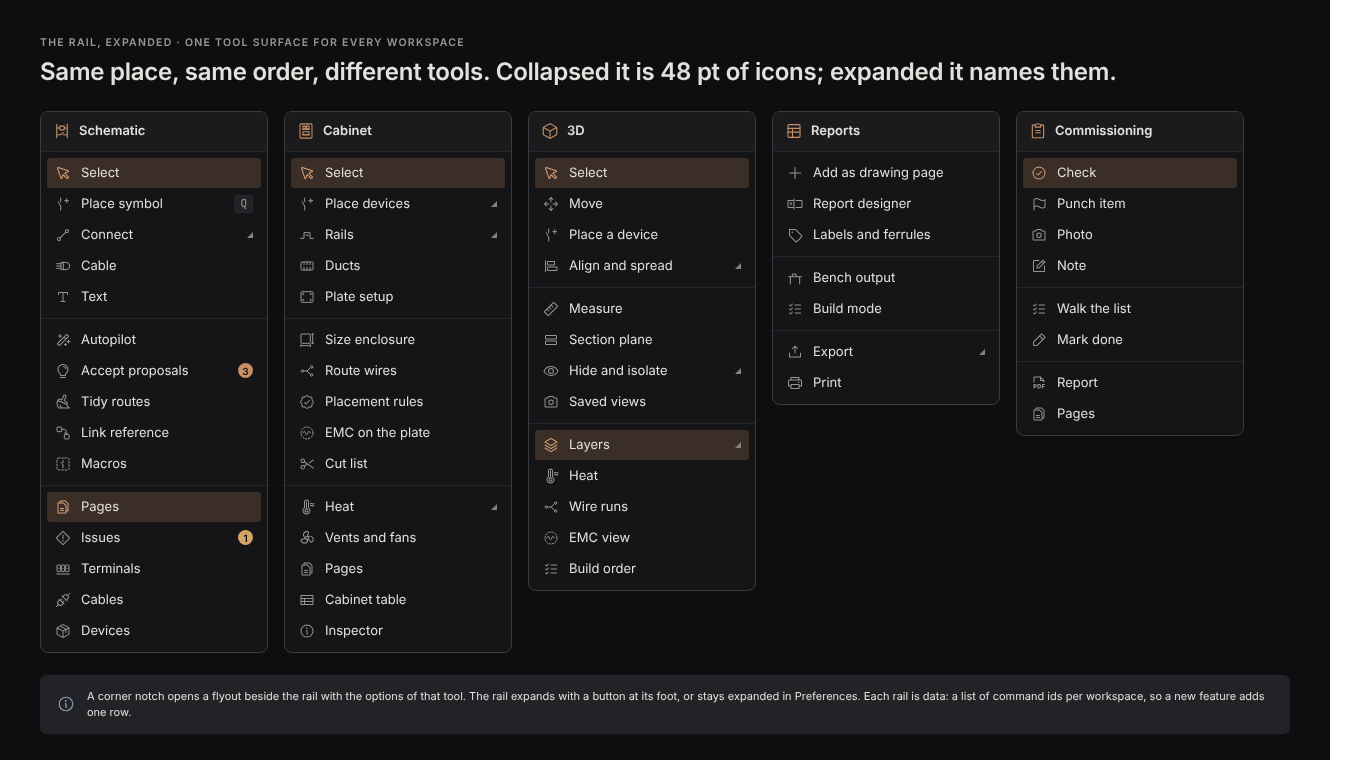
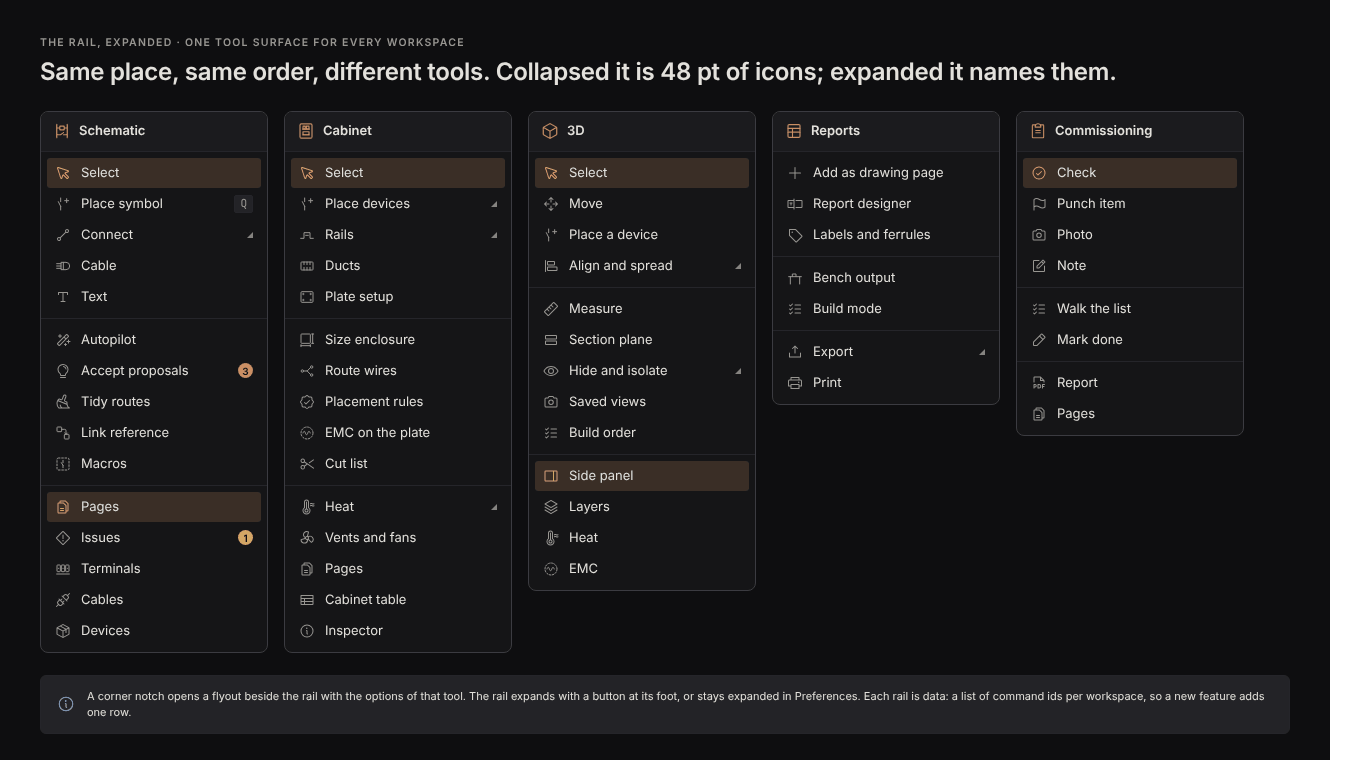
Design: 3D side panel with foldable, undockable sections (supersedes #1582) (#1583)
* Design: 3D overlays and panels addendum (one state per option, panel group, Panels entry)

Claude-Session: https://claude.ai/code/session_015gECXU7iMRGbGb7PGYBbPU

* Design: 3D side panel with foldable, undockable sections (replaces tabs)

Adopts the owner's model: one right-hand panel, each section folds on its own
and can be undocked to a floating window. New side-panel board, 3D rail panels
zone reduced to Side panel, Layers, Heat, EMC; switch states written On or Off;
keyboard rule; Door stored once; add-on slot fits the zone.

Claude-Session: https://claude.ai/code/session_015gECXU7iMRGbGb7PGYBbPU

* Design: always-visible simulation status chip in the 3D workspace

Claude-Session: https://claude.ai/code/session_015gECXU7iMRGbGb7PGYBbPU

---------

Changed region(s): [[0.369, 0.5312, 0.5534, 0.75]]

diff --git a/docs/design/visual-redesign/mockups/Side-panel.dc.html b/docs/design/visual-redesign/mockups/Side-panel.dc.html
@@ -1,0 +1,141 @@
+<!doctype html>
+<html lang="en">
+<head>
+<meta charset="utf-8">
+<title>Side panel with foldable sections</title>
+<script src="./support.js"></script>
+<link rel="stylesheet" href="@@KC@@">
+</head>
+<body>
+<x-dc>
+<helmet>
+<style>
+body{margin:0}
+.sc{border-bottom:1px solid var(--bd)}
+.sh{display:flex;align-items:center;gap:8px;height:34px;padding:0 8px 0 6px;background:var(--panel)}
+.sh .t{font-weight:600}
+.sh.open{background:var(--raised)}
+.sw{display:inline-flex;align-items:center;gap:6px;color:var(--tx2);font-size:11.5px}
+.sw i.k{width:26px;height:14px;border-radius:7px;background:var(--bd2);position:relative;display:inline-block}
+.sw i.k::after{content:"";position:absolute;left:2px;top:2px;width:10px;height:10px;border-radius:5px;background:var(--tx2)}
+.sw.on{color:var(--tx)}
+.sw.on i.k{background:var(--ac)}
+.sw.on i.k::after{left:14px;background:var(--onac)}
+.sb{padding:6px 10px 10px;display:flex;flex-direction:column;gap:6px;background:var(--raised)}
+.ghost{opacity:.6}
+.nn{position:absolute;width:20px;height:20px;border-radius:10px;background:var(--ac);color:var(--onac);font-size:11px;font-weight:700;display:flex;align-items:center;justify-content:center;z-index:12;box-shadow:0 0 0 2px var(--ground)}
+</style>
+</helmet>
+<div class="kc {{theme}} win">
+  <div class="top">
+    <button class="mark" aria-label="App menu"><span class="logo"><i class="brand"></i></span><i class="i i-caret-down i14" style="color:var(--tx3)"></i></button>
+    <button class="btn" aria-label="Undo"><i class="i i-arrow-counter-clockwise i18"></i></button>
+    <button class="btn dim" aria-label="Redo"><i class="i i-arrow-clockwise i18"></i></button>
+    <span class="vsep"></span>
+    <div class="seg">
+      <button class="btn" aria-label="Schematic"><i class="i ki-schematic i18"></i></button>
+      <button class="btn" aria-label="Cabinet"><i class="i ki-cabinet i18"></i></button>
+      <button class="btn on" aria-label="3D view"><i class="i i-cube i18"></i><span>3D view</span></button>
+      <button class="btn" aria-label="Reports"><i class="i ki-report i18"></i></button>
+      <button class="btn" aria-label="Commissioning"><i class="i i-clipboard-text i18"></i></button>
+    </div>
+    <span class="vsep"></span>
+    <button class="crumb" aria-label="Cabinet"><i class="i ki-cabinet i14"></i><span>Motor starter (example)</span><span style="color:var(--tx3)">/</span><b>+CAB · 600 × 800 × 230</b></button>
+    <span class="grow"></span>
+    <button class="search" aria-label="Search or run"><i class="i i-magnifying-glass i14"></i><span style="min-width:96px;text-align:left">Search or run</span><span class="kbd">Ctrl K</span></button>
+    <span class="pill warn"><i class="i i-warning i14"></i>1</span>
+    <button class="btn" aria-label="Help"><i class="i i-question i18"></i></button>
+  </div>
+
+  <div class="stage">
+    <div class="rail">
+      <button class="btn on" aria-label="Select"><i class="i i-cursor"></i></button>
+      <button class="btn" aria-label="Move"><i class="i i-arrows-out-cardinal"></i></button>
+      <button class="btn" aria-label="Place a device"><i class="i ki-place"></i></button>
+      <button class="btn flyout" aria-label="Align and spread"><i class="i i-align-left"></i></button>
+      <div class="hsep"></div>
+      <button class="btn" aria-label="Measure"><i class="i i-ruler"></i></button>
+      <button class="btn" aria-label="Section plane"><i class="i i-rows"></i></button>
+      <button class="btn flyout" aria-label="Hide and isolate"><i class="i i-eye"></i></button>
+      <button class="btn" aria-label="Saved views"><i class="i i-camera"></i></button>
+      <div class="spacer"></div>
+      <div class="hsep"></div>
+      <button class="btn on" aria-label="Side panel"><i class="i i-sidebar-simple" style="transform:scaleX(-1)"></i></button>
+      <button class="btn" aria-label="Layers"><i class="i i-stack"></i></button>
+      <button class="btn" aria-label="Heat"><i class="i i-thermometer-hot"></i></button>
+      <button class="btn" aria-label="EMC"><i class="i ki-emc"></i></button>
+    </div>
+    <div class="cv" style="background:radial-gradient(ellipse at 50% 40%,var(--paper) 0,var(--ground) 80%)">
+      <div class="abs art-iso-{{theme}}" style="inset:0;right:300px;background-position:center 6px;background-size:auto 700px"></div>
+
+      <!-- the side panel: one column, every section folds by itself -->
+      <div class="float" style="right:0;top:0;bottom:0;width:300px;border-radius:0;display:flex;flex-direction:column;z-index:4;overflow:hidden">
+        <div class="wt"><i class="i i-sidebar-simple i14" style="color:var(--ac2);transform:scaleX(-1)"></i><span class="t">3D side panel</span>
+          <button class="btn" aria-label="Sections"><i class="i i-dots-three i14"></i></button>
+          <button class="btn" aria-label="Dock left"><i class="i i-sidebar-simple i14"></i></button>
+          <button class="btn" aria-label="Close"><i class="i i-x i14"></i></button></div>
+        <div class="col" style="flex:1;min-height:0;overflow:hidden"><div class="sc"><div class="sh open"><i class="i i-caret-down i14" style="color:var(--tx3)"></i><i class="i i-info i16" style="color:var(--ac2)"></i><span class="t">Inspector</span><span class="grow"></span><button class="btn" aria-label="Undock" style="height:22px;min-width:22px;padding:0 3px"><i class="i i-arrow-square-out i14"></i></button></div><div class="sb"><div class="row" style="justify-content:space-between"><span class="cap">Device</span><b>-K1 · Contactor</b></div>
+<div class="row" style="justify-content:space-between"><span class="cap">X</span><span class="field mono" style="height:24px;width:110px;justify-content:flex-end">60.0 mm</span></div>
+<div class="row" style="justify-content:space-between"><span class="cap">Y</span><span class="field mono" style="height:24px;width:110px;justify-content:flex-end">360.0 mm</span></div>
+<div class="row" style="justify-content:space-between"><span class="cap">Rail</span><span>Rail 2</span></div></div></div><div class="sc"><div class="sh open"><i class="i i-caret-down i14" style="color:var(--tx3)"></i><i class="i i-stack i16" style="color:var(--ac2)"></i><span class="t">Layers</span><span class="grow"></span><button class="btn" aria-label="Undock" style="height:22px;min-width:22px;padding:0 3px"><i class="i i-arrow-square-out i14"></i></button></div><div class="sb"><div class="row gap8" style="height:24px"><i class="i i-eye i14" style="color:var(--ac2)"></i><span style="color:var(--tx)">Enclosure</span><span class="grow"></span><span class="cap">On</span></div><div class="row gap8" style="height:24px"><i class="i i-eye i14" style="color:var(--ac2)"></i><span style="color:var(--tx)">Door</span><span class="grow"></span><span class="cap">On</span></div><div class="row gap8" style="height:24px"><i class="i i-eye i14" style="color:var(--ac2)"></i><span style="color:var(--tx)">Wires</span><span class="grow"></span><span class="cap">On</span></div><div class="row gap8" style="height:24px"><i class="i i-eye i14" style="color:var(--ac2)"></i><span style="color:var(--tx)">Ducts</span><span class="grow"></span><span class="cap">On</span></div><div class="row gap8" style="height:24px"><i class="i i-eye-slash i14" style="color:var(--tx3)"></i><span style="color:var(--tx2)">Shadows</span><span class="grow"></span><span class="cap">Off</span></div><div class="row gap8" style="height:24px"><i class="i i-eye-slash i14" style="color:var(--tx3)"></i><span style="color:var(--tx2)">Ambient occlusion</span><span class="grow"></span><span class="cap">Off</span></div><div class="row gap8" style="height:24px"><i class="i i-eye i14" style="color:var(--ac2)"></i><span style="color:var(--tx)">Dimensions</span><span class="grow"></span><span class="cap">On</span></div></div></div><div class="sc ghost"><div class="sh"><i class="i i-caret-right i14" style="color:var(--tx3)"></i><i class="i i-thermometer-hot i16" style="color:var(--ac2)"></i><span class="t">Heat</span><span class="grow"></span><span class="cap">Floating</span><button class="btn" aria-label="Dock back" style="height:22px;min-width:22px;padding:0 3px"><i class="i i-arrow-square-in i14"></i></button></div></div><div class="sc"><div class="sh"><i class="i i-caret-right i14" style="color:var(--tx3)"></i><i class="i i-fan i16" style="color:var(--ac2)"></i><span class="t">Vents and fans</span><span class="grow"></span><span class="sw "><i class="k"></i>Off</span><button class="btn" aria-label="Undock" style="height:22px;min-width:22px;padding:0 3px"><i class="i i-arrow-square-out i14"></i></button></div></div><div class="sc"><div class="sh"><i class="i i-caret-right i14" style="color:var(--tx3)"></i><i class="i ki-emc i16" style="color:var(--ac2)"></i><span class="t">EMC</span><span class="grow"></span><span class="sw "><i class="k"></i>Off</span><button class="btn" aria-label="Undock" style="height:22px;min-width:22px;padding:0 3px"><i class="i i-arrow-square-out i14"></i></button></div></div><div class="sc"><div class="sh"><i class="i i-caret-right i14" style="color:var(--tx3)"></i><i class="i i-door i16" style="color:var(--ac2)"></i><span class="t">Door</span><span class="grow"></span><button class="btn" aria-label="Undock" style="height:22px;min-width:22px;padding:0 3px"><i class="i i-arrow-square-out i14"></i></button></div></div><div class="sc"><div class="sh"><i class="i i-caret-right i14" style="color:var(--tx3)"></i><i class="i ki-enclosure i16" style="color:var(--ac2)"></i><span class="t">Sizing</span><span class="grow"></span><button class="btn" aria-label="Undock" style="height:22px;min-width:22px;padding:0 3px"><i class="i i-arrow-square-out i14"></i></button></div></div></div>
+        <div class="grip" style="left:0;bottom:0;transform:scaleX(-1)"></div>
+      </div>
+
+      <!-- simulation status: always visible in the 3D workspace, no section needs to be open -->
+      <div class="float" style="left:16px;top:14px;width:400px;padding:0;z-index:7;overflow:hidden">
+        <div class="row gap8" style="height:40px;padding:0 8px 0 12px">
+          <i class="i i-warning i18" style="color:var(--warn)"></i>
+          <span class="col" style="gap:0;min-width:0;white-space:nowrap"><b>Heat is out of date</b><span class="cap">Model changed 3 min ago · run 12 min ago</span></span>
+          <span class="grow"></span>
+          <button class="prim" style="height:26px;padding:0 10px;white-space:nowrap">Run again</button>
+          <span class="chip" style="height:20px" aria-label="2 more">+2</span>
+        </div>
+        <div style="border-top:1px solid var(--bd)">
+          <div class="row gap8" style="height:30px;padding:0 12px"><i class="i i-check-circle i14" style="color:var(--ok)"></i><span>EMC</span><span class="grow"></span><span class="cap">Done · 12 min ago</span></div>
+          <div class="row gap8" style="height:30px;padding:0 12px"><i class="i i-prohibit i14" style="color:var(--tx2)"></i><span>Interior</span><span class="grow"></span><span class="cap">Not set</span><button class="sec" style="height:22px;padding:0 8px">Set interior</button></div>
+        </div>
+      </div>
+      <span class="nn" style="left:420px;top:22px">5</span>
+
+      <!-- an undocked section: Heat as its own window, same host header -->
+      <div class="float" style="left:30px;top:250px;width:250px;z-index:6;box-shadow:0 18px 44px rgba(0,0,0,.5),0 0 0 2px var(--ac)">
+        <div class="wt"><i class="i i-thermometer-hot i14" style="color:var(--ac2)"></i><span class="t">Heat</span><span class="sw on"><i class="k"></i>On</span>
+          <button class="btn" aria-label="Dock back"><i class="i i-arrow-square-in i14"></i></button><button class="btn" aria-label="Close"><i class="i i-x i14"></i></button></div>
+        <div class="col gap8" style="padding:10px 12px">
+          <div style="height:10px;border-radius:5px;background:linear-gradient(90deg,#2B0F54,#B63679,#FB8761,#FCFDBF)"></div>
+          <div class="row" style="justify-content:space-between"><span class="cap">20 °C</span><span class="cap">ambient 35 °C</span><span class="cap">70 °C</span></div>
+          <div class="row" style="justify-content:space-between"><span class="cap">Hottest</span><b>-Q1 · 62 °C</b></div>
+          <div class="row" style="justify-content:space-between"><span class="cap">Total loss</span><b class="mono">148 W</b></div>
+        </div>
+        <div class="grip" style="right:0;bottom:0"></div>
+      </div>
+
+      <span class="nn" style="right:306px;top:39px">1</span>
+      <span class="nn" style="right:306px;top:192px">2</span>
+      <span class="nn" style="left:262px;top:236px">3</span>
+      <span class="nn" style="right:306px;top:446px">4</span>
+
+      <div class="float" style="left:30px;bottom:16px;width:440px;padding:14px 16px;z-index:9">
+        <div class="lbl" style="margin-bottom:8px">One panel, foldable sections</div>
+        <div style="display:grid;grid-template-columns:22px 1fr;row-gap:6px;align-items:start;font-size:12.5px">
+          <span class="nn" style="position:static;box-shadow:none">1</span><span><b>Fold each section on its own.</b> Several can be open; the column scrolls.</span>
+          <span class="nn" style="position:static;box-shadow:none">2</span><span><b>The switch in the header is the one On/Off</b> of Heat, EMC and Vents and fans, written as words.</span>
+          <span class="nn" style="position:static;box-shadow:none">3</span><span><b>Undock any section</b> into its own window; the row stays in the list and docks it back.</span>
+          <span class="nn" style="position:static;box-shadow:none">4</span><span><b>Door and Sizing</b> appear when there is an enclosure; sections you close come back from the dots menu or Ctrl K.</span>
+          <span class="nn" style="position:static;box-shadow:none">5</span><span><b>Simulation status is always on screen.</b> The chip shows the worst state and one action; +2 lists the rest.</span>
+        </div>
+      </div>
+    </div>
+  </div>
+  <div class="status"><span>Heat is floating. Drag its title bar to the right edge to dock it back.</span><span class="grow"></span><span class="mono">8 devices</span></div>
+</div>
+</x-dc>
+<script type="text/x-dc" data-dc-script data-props='{"theme":{"editor":"enum","options":["dark","light"],"default":"dark","section":"Look"}}'>
+class Component extends DCLogic {
+  renderVals() {
+    return { theme: this.props.theme ?? 'dark' };
+  }
+}
+</script>
+</body>
+</html>

diff --git a/docs/design/visual-redesign/mockups/Rails.dc.html b/docs/design/visual-redesign/mockups/Rails.dc.html
@@ -39,8 +39,8 @@ body{margin:0}
 
     <div class="rl"><div class="h"><i class="i i-cube i18" style="color:var(--ac)"></i>3D</div>
       <div class="g"><div class="mrow on"><i class="i i-cursor"></i>Select</div><div class="mrow"><i class="i i-arrows-out-cardinal"></i>Move</div><div class="mrow"><i class="i ki-place"></i>Place a device</div><div class="mrow"><i class="i i-align-left"></i>Align and spread<span class="fy"></span></div></div>
-      <div class="g"><div class="mrow"><i class="i i-ruler"></i>Measure</div><div class="mrow"><i class="i i-rows"></i>Section plane</div><div class="mrow"><i class="i i-eye"></i>Hide and isolate<span class="fy"></span></div><div class="mrow"><i class="i i-camera"></i>Saved views</div></div>
-      <div class="g"><div class="mrow on"><i class="i i-stack"></i>Layers<span class="fy"></span></div><div class="mrow"><i class="i i-thermometer-hot"></i>Heat</div><div class="mrow"><i class="i ki-net"></i>Wire runs</div><div class="mrow"><i class="i ki-emc"></i>EMC view</div><div class="mrow"><i class="i i-list-checks"></i>Build order</div></div>
+      <div class="g"><div class="mrow"><i class="i i-ruler"></i>Measure</div><div class="mrow"><i class="i i-rows"></i>Section plane</div><div class="mrow"><i class="i i-eye"></i>Hide and isolate<span class="fy"></span></div><div class="mrow"><i class="i i-camera"></i>Saved views</div><div class="mrow"><i class="i i-list-checks"></i>Build order</div></div>
+      <div class="g"><div class="mrow on"><i class="i i-sidebar-simple" style="transform:scaleX(-1)"></i>Side panel</div><div class="mrow"><i class="i i-stack"></i>Layers</div><div class="mrow"><i class="i i-thermometer-hot"></i>Heat</div><div class="mrow"><i class="i ki-emc"></i>EMC</div></div>
     </div>
 
     <div class="rl"><div class="h"><i class="i ki-report i18" style="color:var(--ac)"></i>Reports</div>

diff --git a/docs/design/visual-redesign/tools/build_kit.py b/docs/design/visual-redesign/tools/build_kit.py
@@ -38,7 +38,7 @@ shield-check circle push-pin-simple arrow-square-out frame-corners cursor-click 
 arrows-clockwise tray archive file-arrow-up image selection-all bounding-box toggle-left wave-sine flag note-pencil table  printer
 git-commit circle-notch sun moon palette rows-plus-bottom open-ai-logo hard-drives map-trifold  list-checks list-bullets textbox
 resize arrows-horizontal dock-simple monitor app-window picture-in-picture arrow-line-right arrow-line-left dots-six  cpu plug-charging
-wall power battery-charging lightning-a gear toolbox target fast-forward rewind pause stop timer clock puzzle-piece shield-warning toggle-right lock-key game-controller broadcast certificate fingerprint prohibit seal-warning plug record""".split()
+wall power battery-charging lightning-a gear toolbox target fast-forward rewind pause stop timer clock puzzle-piece shield-warning toggle-right lock-key game-controller broadcast certificate fingerprint prohibit seal-warning plug record arrow-square-in""".split()
 
 # the schematic and palette use these library symbols
 SUBSET = json.load(open(os.path.join(HERE, "symbols-subset.json")))

diff --git a/docs/design/visual-redesign-3d.md b/docs/design/visual-redesign-3d.md
@@ -1,0 +1,101 @@
+# Visual redesign addendum: 3D overlays and the side panel
+
+Graphic design thread, 2026-10-28. Addendum to `visual-redesign.md` (sections 3.2 and 8 and lane V3b). It answers the owner's complaints of 2026-10-28 about the 3D view:
+
+- EMC cannot be turned off in the 3D configuration panel.
+- The configuration panel is frustrating in general.
+- The other panels that can appear (Inspector, Temperature, Door, Sizing and so on) are separate popups that are hard to find, cannot be closed, and are not easy to open again.
+- Buttons are doubled: turning heat off in the 3D panel leaves it on in the top bar.
+- "Vents and fans" and "Heat" overlap each other. The owner's proposal: **one long panel on the right with individually foldable sections, each of which can be undocked into a floating window.** This page adopts that model.
+- It is very hard to see whether the simulation was done and what its status is, especially with the sections folded. Section 4 adds an always-visible status chip.
+
+![3D side panel](visual-redesign/images/side-panel-dark.png)
+
+| Board | Dark | Light |
+| --- | --- | --- |
+| 3D side panel: foldable sections, Heat undocked | [png](visual-redesign/images/side-panel-dark.png) | [png](visual-redesign/images/side-panel-light.png) |
+
+The board `workspace-3d` still shows the earlier Layers flyout; the side-panel board supersedes it.
+
+## 1. The causes this page designs against
+
+Confirmed in the code by the 3D rework thread: `view3d.rs` sets the EMC state from the controls before the toolbar runs and writes it back after the panels, which undoes a click; Cabinet has its own EMC state; Heat has three owners (the controls, the Cabinet heat state and the 3D heat layers). Inferred from the owner's words: each overlay opened its own popup, so there is no list of what can be open and no single way to close them.
+
+## 2. Rules
+
+1. **One state, one owner.** Every 3D view option (a layer or an overlay) is one entry in one registry with one stored value. The section switch, a Layers row, a rail button, the Ctrl K command and a key all read and write that entry. No surface keeps a copy, and nothing recomputes the value from somewhere else each frame.
+2. **The top bar carries no view toggles.** It holds the mark, undo and redo, the workspace segment, the page, search and issues (visual-redesign.md section 3.1). The existing top-bar heat button is removed in the same change that introduces the registry.
+3. **The switch lives in the section header.** An overlay that has a section (Heat, Vents and fans, EMC) is switched on and off by the switch in its header, **written as the word On or Off next to the switch**, never by colour alone. Plain visibility layers are rows of the Layers section, with On or Off written at the right. The rail buttons for these do not switch anything: they open the side panel and unfold the section (section 5).
+4. **Off means off.** Turning an overlay off hides its drawing and its legend, and survives selection changes, a new run and reopening the project. A test turns each option on and off from every surface and asserts the same value everywhere.
+5. **Every section can be folded, undocked, closed and found again.** Section 3 says how.
+6. **Keyboard and words.** Section headers, the switches and the Layers rows are reachable with Tab and the arrow keys; Enter or Space folds a section or flips a switch; Esc closes the topmost floating section. A switch is never colour only.
+
+## 3. The side panel
+
+One panel on the right (280 to 300 wide by default, resizable, dockable left or right, floatable as a whole, remembered per workspace layout; panel rules in visual-redesign.md section 8). Its sections, in the default order:
+
+| Section | What it holds | Switch | Shown |
+| --- | --- | --- | --- |
+| Inspector | The selection: device, position, rail, clearance. Follows the selection | none | Always |
+| Layers | Visibility rows: Enclosure, Door, Wires, Ducts, Shadows, Ambient occlusion, Dimensions, each with On or Off written. The Door row is visibility only; the angle lives in the Door section, so it is stored once | none (rows) | Always |
+| Heat | The scale and legend, hottest device, total loss, run. Replaces the separate "Temperature" popup | On or Off | Always |
+| Vents and fans | The cooling inputs (vents, fans, flow) that the Heat results depend on. A separate section because the owner asked for it; both read the same heat state | On or Off | Always |
+| EMC | The legend and the rules list | On or Off | Always |
+| Door | Door angle and clearance swing | none | When there is an enclosure |
+| Sizing | Enclosure size read-outs; the sizing tool stays "Size enclosure" on the Cabinet rail | none | When there is an enclosure |
+
+Behaviour of each section header (left to right: fold chevron, icon, title, switch where it has one, undock button):
+
+- **Fold.** Click the header or press Enter. Several sections can be open at once; the column scrolls and the headers of open sections stick to the top while their body scrolls. Alt+click folds all the others (solo). Fold state is remembered.
+- **Undock.** The undock button, or dragging the header out of the panel, turns the section into a floating window with the standard host header (icon, title, switch, dock back, close), resizable, remembered. The row stays in the list as a dimmed "Floating" row with a dock-back button, so nothing disappears from the panel. Dragging the floating window to the panel's edge docks it back; the dock-back button returns it to its place in the order.
+- **Close.** Closing a section hides it. The dots menu in the panel header ("Sections") lists every section with its state, and Ctrl K has "Show <section>" for each, so a closed section is one click away. Closing a section never changes its On or Off value.
+- **Esc** closes the topmost floating section; the panel itself closes with its X, the rail "Side panel" button, or Ctrl K.
+
+The **same component** can serve the Cabinet workspace (its own section list, for example Inspector, Heat, Vents and fans, EMC on the plate, Placement rules, Cabinet table). It is a section list per workspace, a data table like the rail tables, so a new section adds one row.
+
+## 4. Simulation status
+
+Owner, 2026-10-28: in the 3D view it is very hard to see whether the simulation has been done and what its status is, especially when the sections are folded, because a normal user does not know which section to open. **Status never lives inside a section.**
+
+- **An always-visible status chip** sits in the top-left corner of the 3D canvas (inset 12, clear of the view cube on the right; direction.md section 6 rule 6). It is there whether the side panel is open, folded, floating or closed.
+- It shows the **most important state** of the analyses behind the view, as an icon, words, one detail line and **one action**. The `+N` button opens a short list of the others, each with its own state and action.
+
+| State | Icon and words | Detail line | Action |
+| --- | --- | --- | --- |
+| Not run | play, "Heat has not been run" | What running gives, for example "Shows temperatures and the hottest device" | Run |
+| Running | spinner, "Heat is running" | Progress and time left; the spinner stops moving with Reduce motion and the words stay | Cancel |
+| Done | check-circle, "Heat is done" | Age ("3 min ago") | Open Heat (opens the side panel and unfolds the Heat section) |
+| Out of date | warning, "Heat is out of date" | "Model changed 3 min ago · last run 12 min ago" | Run again |
+| Failed | warning-octagon, "Heat failed" | The reason in plain words | Details, Run again |
+| Not set | prohibit, "Interior is not set" | What is missing | Set interior |
+
+- The same states apply to **EMC** ("EMC check is out of date") and any other analysis the 3D view shows; "Interior is not set" and similar missing inputs are states of the analysis that needs them.
+- **Priority** when several apply: Failed, Running, Out of date or Not set, Not run, Done. When everything is Done the chip stays, quiet, with the age ("Heat done 3 min ago"), so the answer to "was it run?" is always on screen.
+- **One owner:** each analysis has one status value (state, started, finished, the model revision it ran on, progress, error). "Out of date" is computed by comparing the model revision at the run with the current one, in one place. The chip, the Heat section header and Ctrl K read that value; nothing keeps its own copy.
+- States are words and an icon, never colour alone (warning and error colours support them). The chip is keyboard reachable and the action runs with Enter.
+- On a narrow canvas the chip shrinks to icon and the state word; the detail line moves to the tooltip.
+
+## 5. The rail on the 3D workspace
+
+The 3D rail (visual-redesign.md section 3.2) keeps its tools and assists. Its panels zone has four places: **Side panel** (show or hide the whole panel), **Layers**, **Heat** and **EMC**. The last three open the side panel if it is closed and unfold their section; they do not switch an overlay (rule 3). The zone stays at 4 base places, so the add-on slot (visual-redesign-addons.md section 3) fits as the fifth. "Build order" moves to the assists zone (5). "Wire runs" is the Wires row of Layers.
+
+## 6. Tests
+
+- **Single state:** for each registered option, set it from the section switch or row, Ctrl K and the key; assert all surfaces report the same value and that the drawing agrees.
+- **No duplicates:** a test lists the options each surface shows and fails if an option has a second owner or appears in the top bar (rule 2).
+- **Foldable, undockable, closable:** every section has fold, undock and close; undock then dock back restores the order; close then "Show" restores the section and its fold state.
+- **Off survives:** turn EMC and Heat off, select another device, rerun, reopen the project; they stay off.
+- **Keyboard:** the headers, switches, Layers rows and the status chip are reachable and operable without the mouse.
+- **Status:** run, move a device, and assert the chip goes Done then Out of date with the right words and action; fail a run and assert the reason shows; with every section folded and the panel closed the chip is still drawn.
+
+## 7. Order of work and lane V3b
+
+Lane V3b (the 3D rail) is **built together with the 3D rework**, as one thread. Suggested order, each step its own PR:
+
+1. **Registry, status and top bar** (needs nothing from the redesign): the view-option registry, rule 4's test, the top-bar heat button removed, EMC fixed, and the simulation status chip with its single status value (section 4). This ships on today's UI.
+2. **Side panel** (today's panel helper; docking arrives with lane V1): the section column with fold, undock, close and the Sections menu; Inspector, Layers, Heat, Vents and fans, EMC, Door and Sizing as sections.
+3. **3D rail** (needs lane V3a, the rail core): the rail of the board, with the panels zone of section 4.
+
+## 8. Honest limits
+
+The board is an HTML picture, not egui output. Dragging a header out of a panel to undock it is custom code on top of egui areas; lane V1 must prove it with scripted drag tests, and the undock button is the fallback if the drag proves unreliable. "Temperature" is merged into Heat on the assumption that they show the same data; the 3D thread confirms. Whether each analysis can report progress, a model revision and an error reason today is for the 3D thread to confirm in the code; where one cannot, the chip shows Done or Not run without a progress figure. Door and Sizing as top-level sections follow the owner's list; if either edits geometry rather than showing properties, it stays a tool and its section shows read-only values.

diff --git a/docs/design/visual-redesign.md b/docs/design/visual-redesign.md
@@ -102,7 +102,7 @@ The rail replaces the bottom dock and the text toolbars. It has three zones sepa
 | --- | --- | --- | --- |
 | Schematic | Select, Place symbol (Q), Connect (flyout: Corners, Lines, Autowire), Cable, Text | Autopilot, Accept proposals (badge: count), Tidy routes, Link reference, Macros | Pages, Issues (badge), Terminals, Cables, Devices |
 | Cabinet | Select, Place devices (flyout), Rails (flyout), Ducts, Plate setup | Size enclosure, Route wires, Placement rules, EMC on the plate, Cut list | Heat (flyout), Vents and fans, Pages, Cabinet table, Inspector |
-| 3D | Select, Move, Place a device, Align and spread (flyout) | Measure, Section plane, Hide and isolate (flyout), Saved views | Layers (flyout), Heat, Wire runs, EMC view, Build order |
+| 3D | Select, Move, Place a device, Align and spread (flyout) | Measure, Section plane, Hide and isolate (flyout), Saved views, Build order | Side panel, Layers, Heat, EMC (the last three open the side panel and unfold their section; see `visual-redesign-3d.md`) |
 | Reports | Add as drawing page, Report designer, Labels and ferrules | Bench output, Build mode | Export (flyout), Print |
 | Commissioning | Check, Punch item, Photo, Note | Walk the list, Mark done (tooltip: "a working mark, not a compliance record") | Report, Pages |
 
@@ -302,7 +302,7 @@ Sizes are guides. Each lane is one pull request (or a few small ones) in the cra
 | **V2b App menu** | Two-pane app menu from the registry, `F10`, search inside the menu, the "show menu names" setting, About and Preferences footer, lesson anchors for `menu.<name>` | `novo-app`, `novo-workflow` | V2a | The mark in the top bar |
 | **V2c Menu trimming** | Registry changes: label policy (28), relocation per the table in 5.2, the budget test; long text moves to tooltip and palette description | `novo-workflow` | V0 | Menus and palette |
 | **V3a Rail core and schematic rail** | Rail widget (zones, flyouts, badges, expanded form), per-workspace data tables, the schematic rail replacing the dock, hints to the status bar | `novo-app`, `novo-workflow` | V0, V2a | Schematic |
-| **V3b 3D rail** | 3D rail and its flyouts (Layers, Heat, Align, Hide), the 43 View > 3D rows leave the menu | `novo-app`, `novo-view3d` | V3a | 3D workspace |
+| **V3b 3D rail** | 3D rail with its flyouts (Align, Hide) and the side panel of `visual-redesign-3d.md`, the 43 View > 3D rows leave the menu | `novo-app`, `novo-view3d` | V3a | 3D workspace |
 | **V3c Cabinet rail** | Cabinet rail with the content and grouping of `cabinet-toolbar.md` in expanded form and flyouts | `novo-app` | V3a | Cabinet workspace |
 | **V3d Reports and Commissioning rails** | The two small rails, Export flyout | `novo-app` | V3a | Reports, Commissioning |
 | **V4 Import and Export centres** | Centre window, format tiles, options, preview; Print; File > Import and both Export menus reduce to one entry each | `novo-app`, `novo-interop`, `novo-pdf` | V1, V2c | File menu, Reports |

diff --git a/handoff/visual-design/PROGRESS.md b/handoff/visual-design/PROGRESS.md
@@ -2,3 +2,6 @@
 2026-10-28 12:05 UTC #1566 merged (a2293c4). Follow-up doc PR: R3 nits (Draw target 17, total 152; Mark done; 3D Move off; bar 42 to 40 shorter, 92 percent unmeasured; keyboard, High contrast, Reduce motion in acceptance) and the stamp fix.
 2026-10-28 12:57 UTC Add-on integration requested by the owner: addendum docs/design/visual-redesign-addons.md, two boards (manager, add-ons in the app), four example add-on icons; decisions against C0b proposal: puzzle-piece glyph (no drawn icon), one rail slot per workspace, shape-data icons optional in API v1.
 2026-10-28 13:00 UTC Add-ons PR #1575 reviewer fixes: Cabinet Cut list moved to assists (panels zone 5), Controllers panel has no key of its own, E-stop simulation-only note, sandbox and signed pill marked as design target, stamp corrected.
+2026-10-28 13:45 UTC 3D overlays and panels addendum docs/design/visual-redesign-3d.md (owner complaint: EMC cannot be turned off, doubled heat button, popups): one state per option, no view toggles in the top bar, right panel group with tabs, Panels entry; V3b to be built with the 3D rework thread.
+2026-10-28 13:48 UTC 3D spec revised to the owner's model: one side panel with foldable, undockable sections (Inspector, Layers, Heat, Vents and fans, EMC, Door, Sizing); board side-panel; 3D rail panels zone reduced to Side panel, Layers, Heat, EMC; R3 nits folded in. Supersedes #1582.
+2026-10-28 13:51 UTC 3D spec: always-visible simulation status chip (Not run, Running, Done, Out of date, Failed, Not set) added to side-panel board and docs/design/visual-redesign-3d.md section 4.

diff --git a/handoff/visual-design/ROADMAP.md b/handoff/visual-design/ROADMAP.md
@@ -2,7 +2,7 @@
 
 Scope: the look and behaviour of the program's frame: top bar, tool rail, menus, palettes, start screen, window handling, the drawn icon set. Owner request 2026-10-28: less text, more symbols, shorter menus, every window draggable and resizable.
 
-Spec: `docs/design/visual-redesign.md` and `docs/design/visual-redesign-addons.md` (boards in `docs/design/visual-redesign/images`, sources in `mockups/`, icon source `tools/koper_icons.py`).
+Spec: `docs/design/visual-redesign.md` , `docs/design/visual-redesign-addons.md` and `docs/design/visual-redesign-3d.md` (boards in `docs/design/visual-redesign/images`, sources in `mockups/`, icon source `tools/koper_icons.py`).
 
 Done: audit (318 menu entries counted), 12 boards light and dark, 40 drawn icons, design doc, DESIGN.md and direction.md pointers.
 Next in order: build lanes V0 foundations, V1 window manager, V2a top bar, V2b app menu, V2c menu trimming, V3a rail core and schematic, V3b 3D rail, V3c cabinet rail, V3d reports and commissioning rails, V4 import and export centres, V5 palettes, V6 start screen, V7 lessons, anchors, QA sweep (table in section 14 of the doc).
